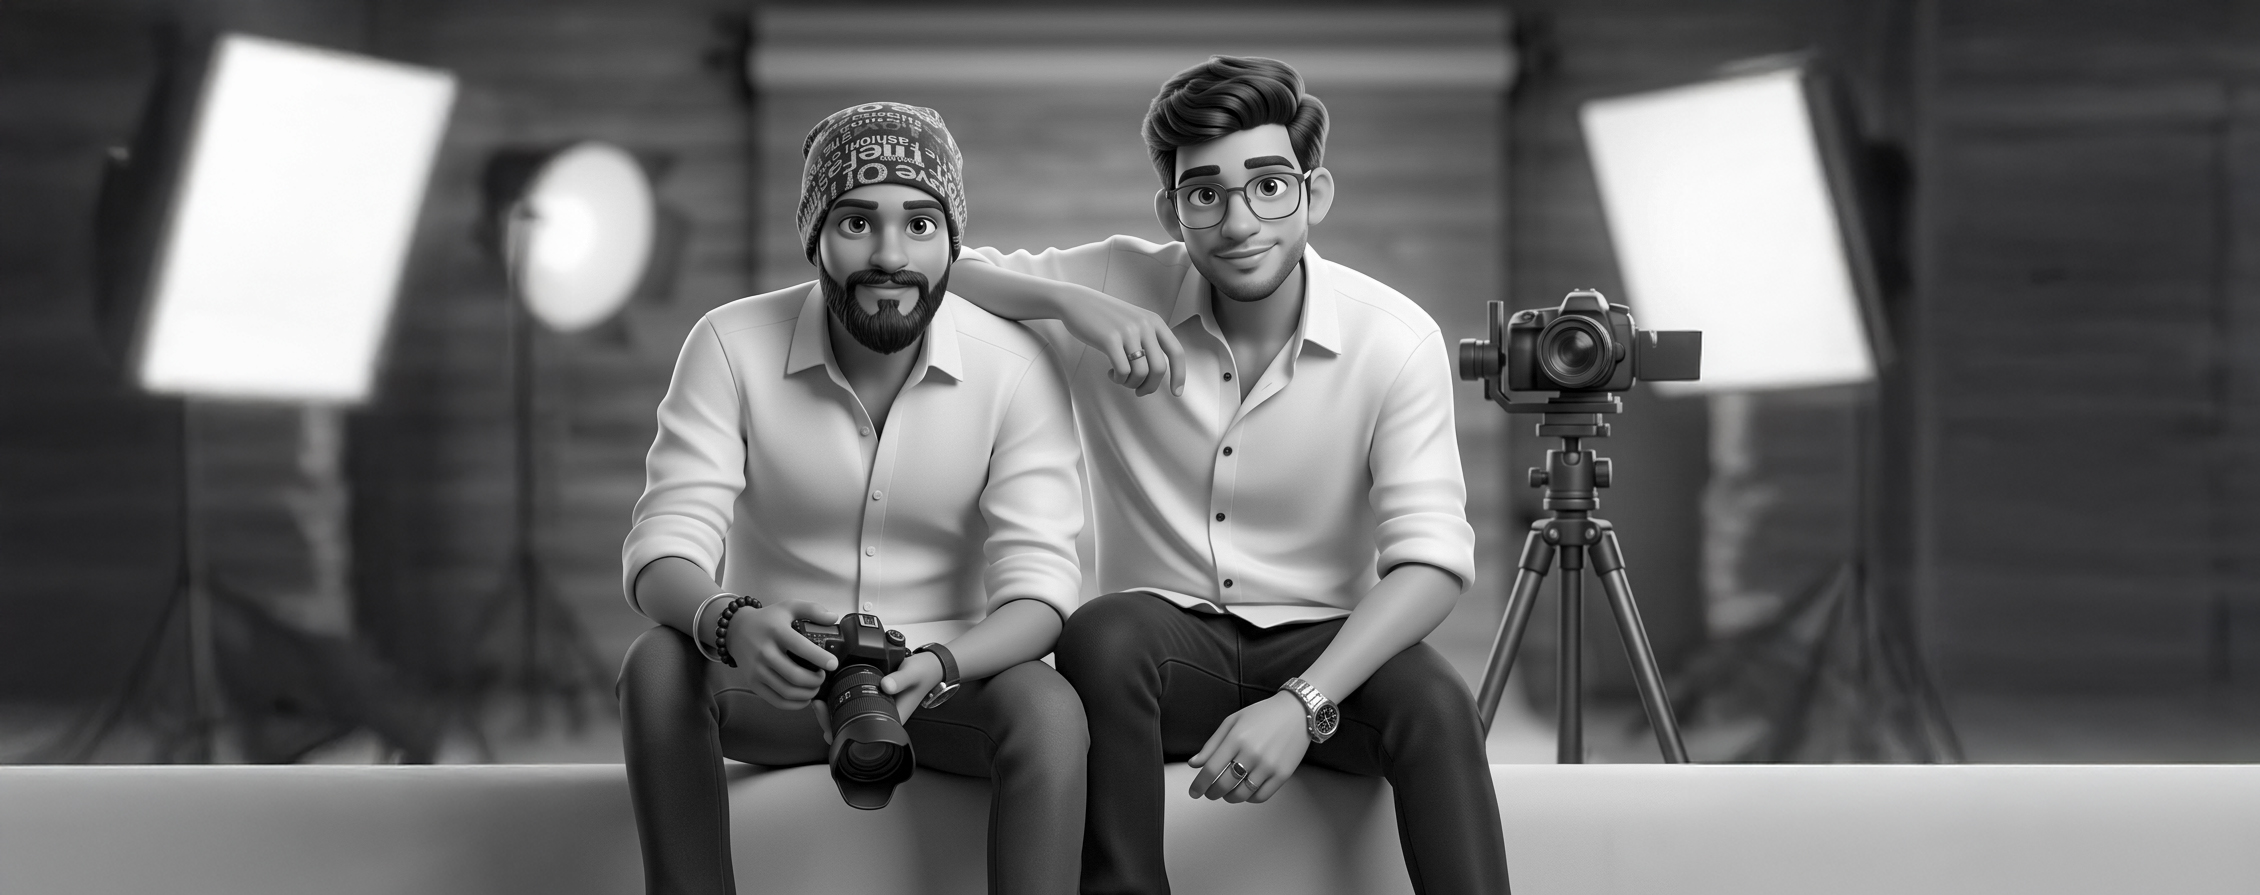
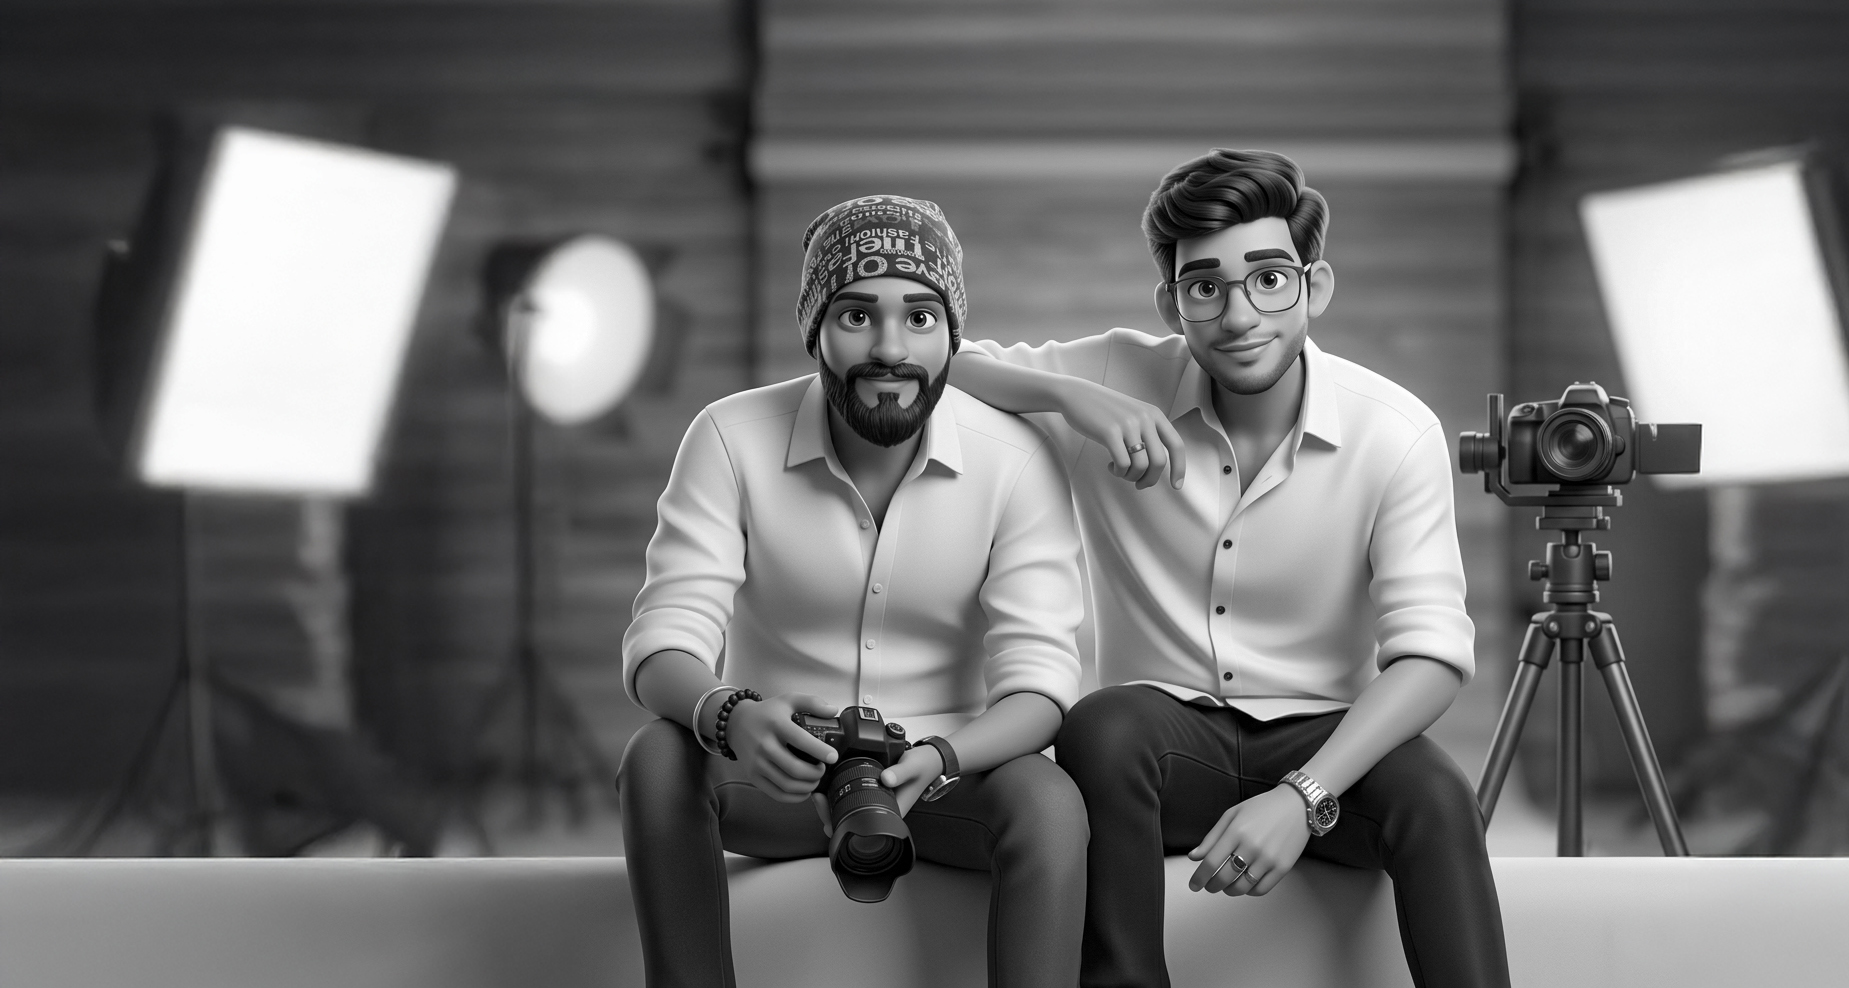
Updated hero section with responsive desktop and mobile background images

diff --git a/app/templates/landing.html b/app/templates/landing.html
@@ -147,11 +147,19 @@
     =========================================== -->
     <section id="home" class="relative h-screen min-h-[800px] flex items-center justify-center overflow-hidden">
         
-        <!-- Hero Background Image (Black & White, high contrast) -->
+        <!-- Hero Background Images (Responsive) -->
         <div class="absolute inset-0 z-0 bg-mono-black">
-            <img id="hero-img" src="static/uploads/bg.jpeg" 
-                 alt="Camera Lens Aesthetic" 
-                 class="w-full h-full object-cover opacity-80 grayscale contrast-125 scale-105 transition-transform duration-[2s]">
+            
+            <!-- Mobile Image (Hidden on medium screens and larger) -->
+            <img src="{{ url_for('static', filename='uploads/bg1.jpeg') }}" 
+                 alt="ELRS Photography Founders Mobile" 
+                 class="block md:hidden w-full h-full object-cover opacity-80 grayscale contrast-125 scale-105 transition-transform duration-[2s]">
+                 
+            <!-- Desktop Image (Visible only on medium screens and larger) -->
+            <img src="{{ url_for('static', filename='uploads/bg.jpeg') }}" 
+                 alt="ELRS Photography Founders Desktop" 
+                 class="hidden md:block w-full h-full object-cover opacity-80 grayscale contrast-125 scale-105 transition-transform duration-[2s]">
+            
             <!-- Gradient overlays to ensure text readability -->
             <div class="absolute inset-0 bg-gradient-to-b from-mono-black/40 via-transparent to-mono-black"></div>
             <div class="absolute inset-0 bg-gradient-to-r from-mono-black/60 via-transparent to-mono-black/60"></div>
@@ -200,7 +208,6 @@
             </div>
         </div>
     </section>
-
 
 
 <!-- ==========================================
